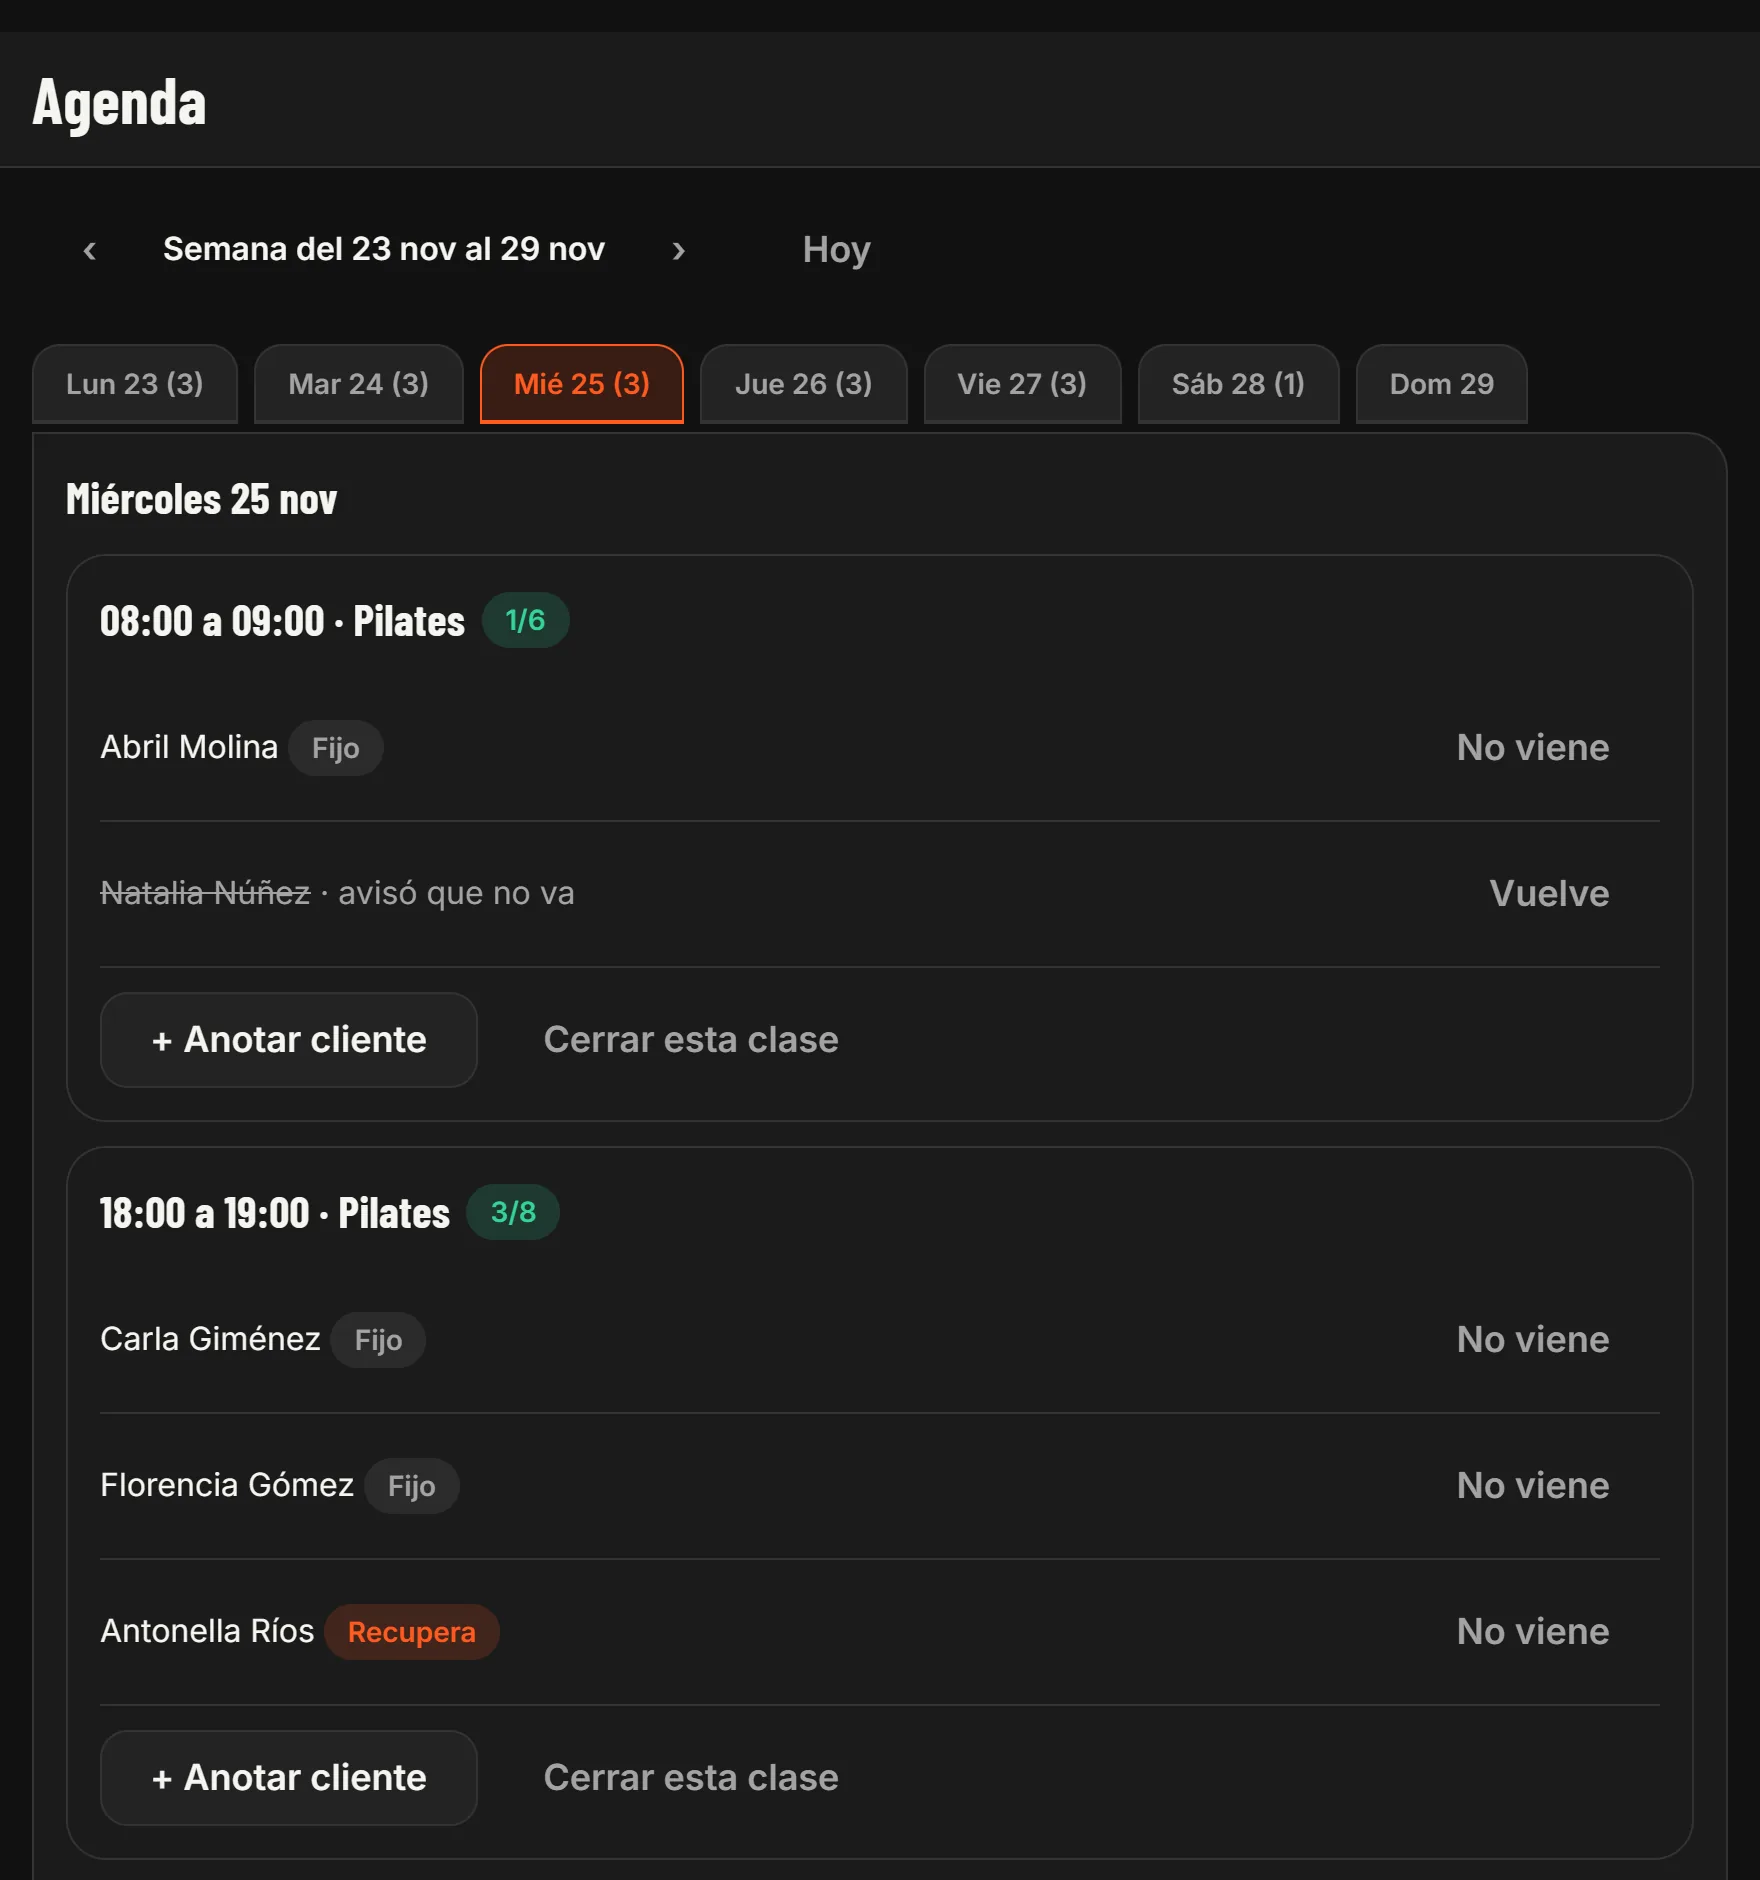
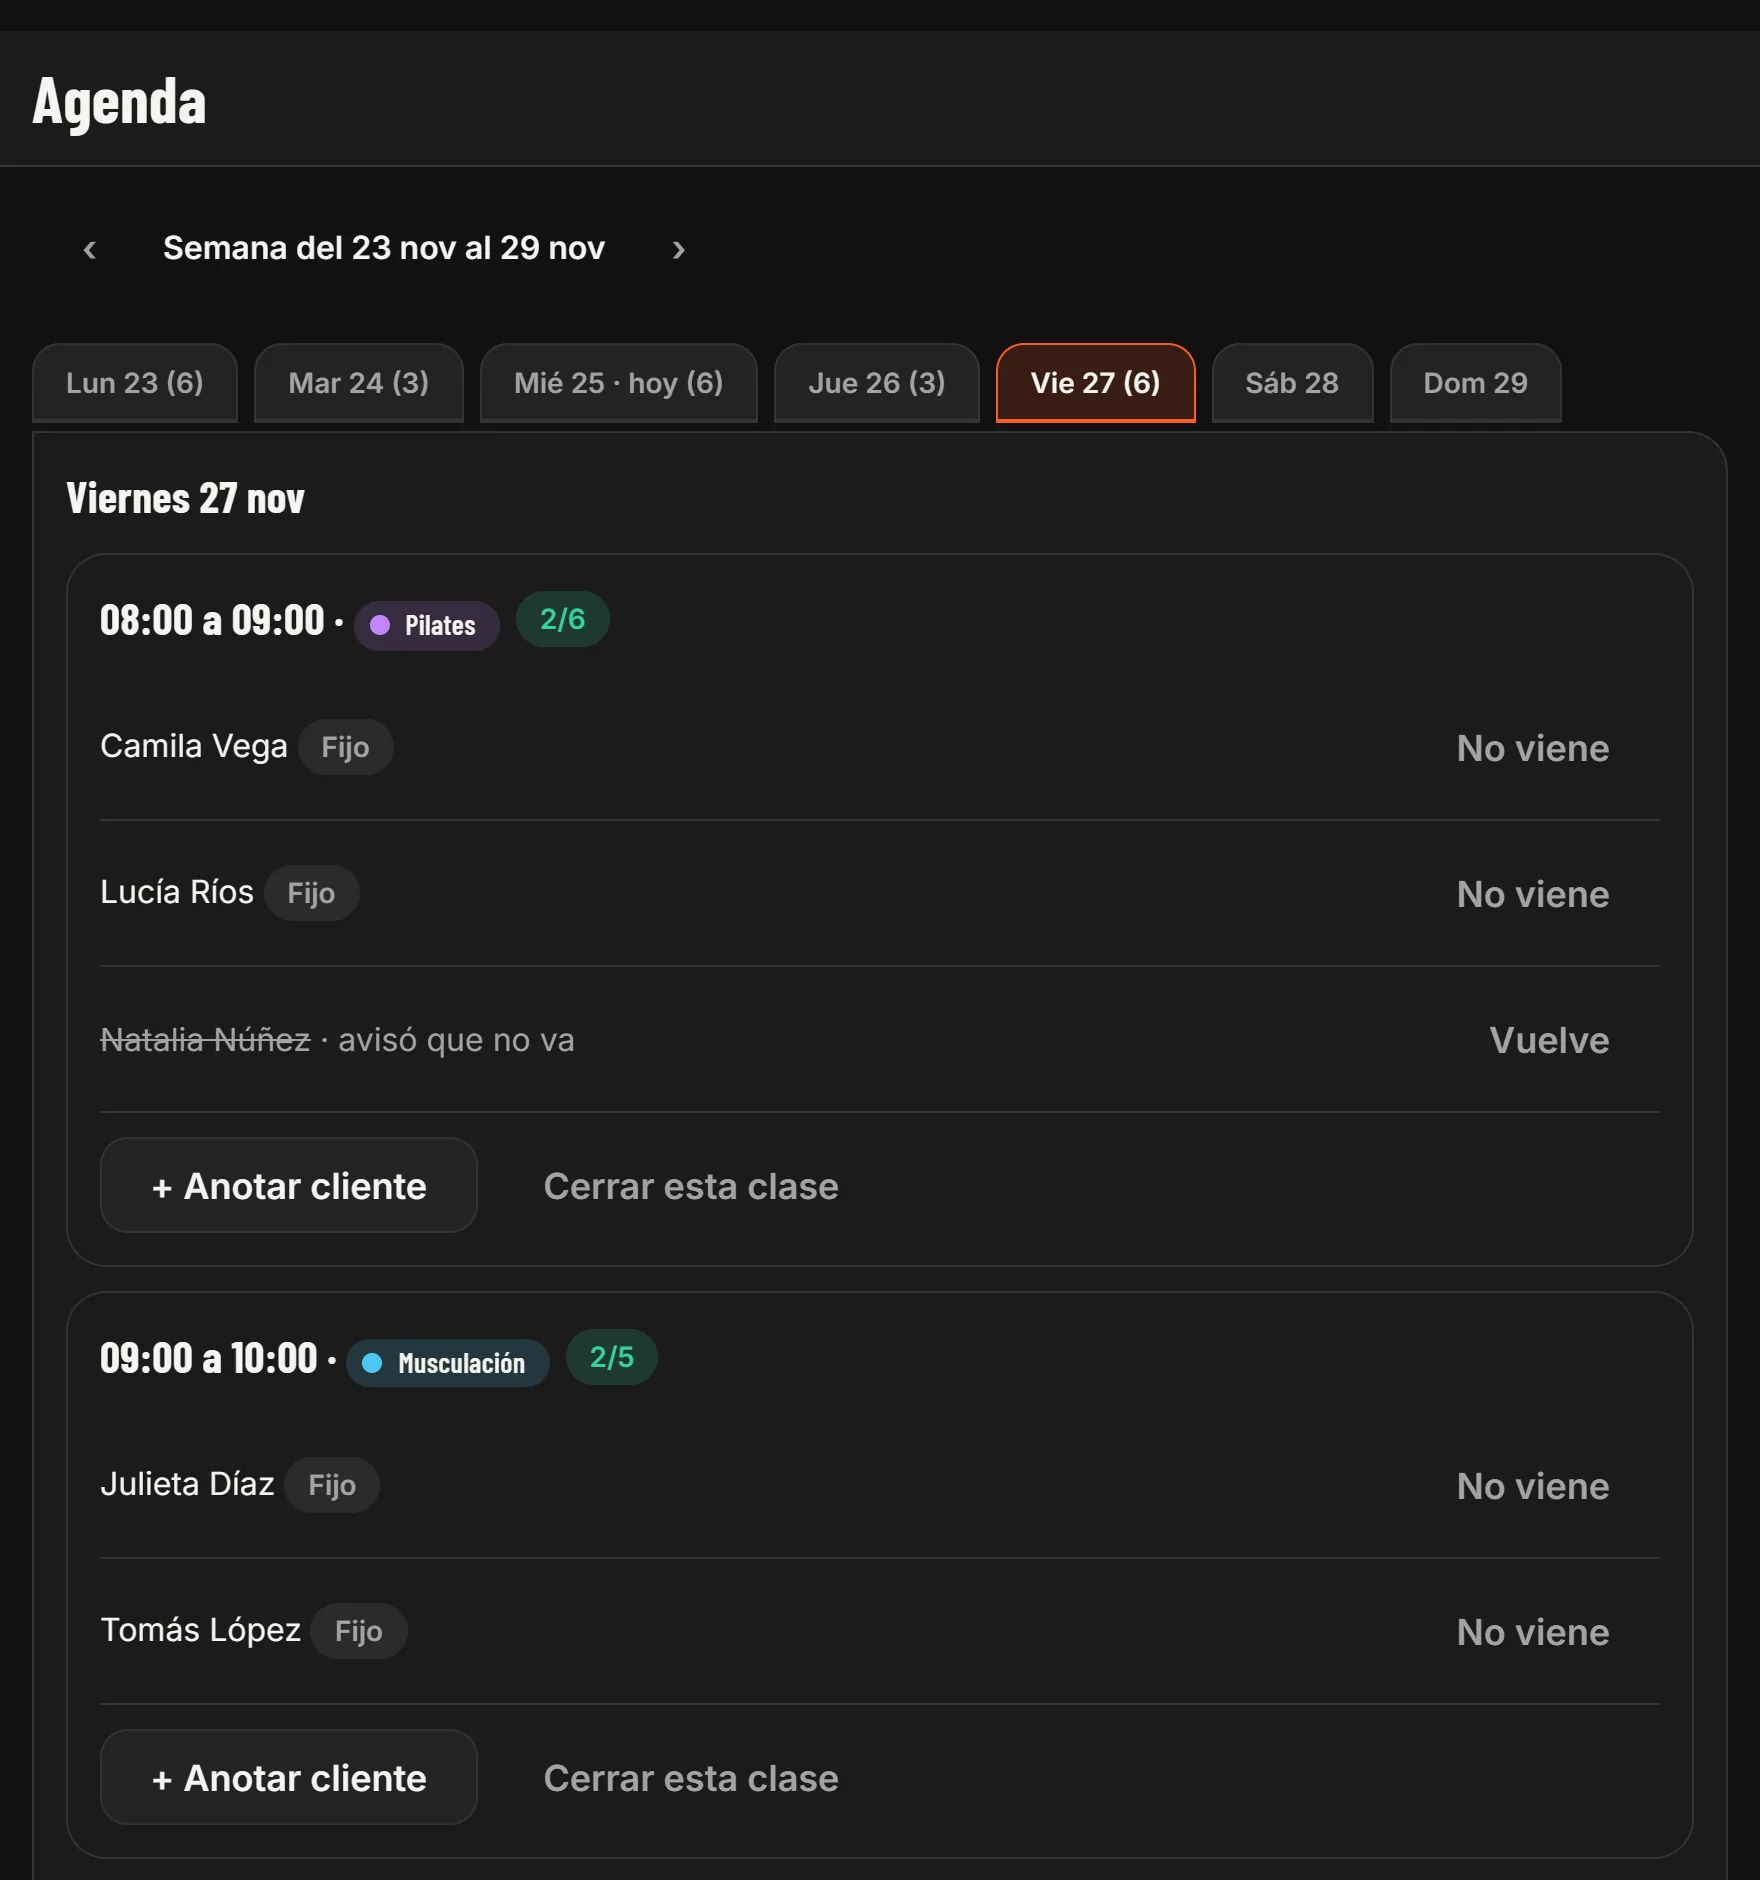
Capturas del turnero con los colores de cada actividad
- Agenda (viernes 27): Pilates en violeta y Musculación en celeste.
- Mis turnos de Natalia: Musculación el jueves y Pilates marcado No voy.
- Textos alternativos de las dos imágenes actualizados.

diff --git a/index.html b/index.html
@@ -492,12 +492,12 @@
         <article class="card card--row span-7">
           <h3>La agenda de cada día</h3>
           <p>Quién viene a cada clase, quién avisó que no va y quién recupera. Anotás a alguien o cerrás una clase con un toque.</p>
-          <div class="panel"><img class="frame__img" src="assets/app/turnos-agenda.webp" alt="La Agenda del miércoles 25 de noviembre: Pilates de 8 con una alumna que avisó que no va, Pilates de 18 con una alumna que recupera y Spinning de 19:15 con 8 de 12 lugares ocupados" width="1760" height="1880" loading="lazy" data-source="client" data-subject="Fortius, agenda de turnos"></div>
+          <div class="panel"><img class="frame__img" src="assets/app/turnos-agenda.webp" alt="La Agenda del viernes 27 de noviembre, cada actividad con su color: Pilates de 8 en violeta, con una alumna que avisó que no va, y Musculación de 9 en celeste" width="1760" height="1880" loading="lazy" data-source="client" data-subject="Fortius, agenda de turnos"></div>
         </article>
         <article class="card card--row span-7">
           <h3>El alumno avisa desde el celular</h3>
           <p>Ve sus próximas clases y toca “No voy”. Ese lugar queda libre y se gana una clase para recuperar.</p>
-          <div class="panel panel--cel"><img class="frame__img" src="assets/app/turnos-alumno.webp" alt="Mis turnos en el celular de Natalia: Pilates el lunes 23, el miércoles 25 marcado como No voy y el viernes 27" width="640" height="1000" loading="lazy" data-source="client" data-subject="Fortius, Mis turnos del alumno"></div>
+          <div class="panel panel--cel"><img class="frame__img" src="assets/app/turnos-alumno.webp" alt="Mis turnos en el celular de Natalia, cada clase con el color de su actividad: Musculación el jueves 26 y Pilates el viernes 27 marcado como No voy" width="640" height="1000" loading="lazy" data-source="client" data-subject="Fortius, Mis turnos del alumno"></div>
         </article>
         <article class="card card--plan span-5">
           <h3>¿Necesitás otra cosa?</h3>
